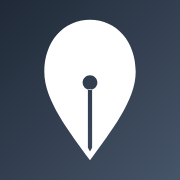
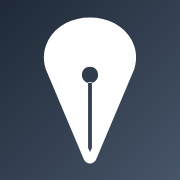
Refine the nib mark, fix the record notice and the smoke test count
Claude-Session: https://claude.ai/code/session_01GpcxRTzFwBRRgXHcpe3f5z

Changed region(s): [[0.2222, 0.0833, 0.7778, 0.7778], [0.4444, 0.3611, 0.5556, 0.5], [0.4167, 0.7778, 0.5833, 0.9167]]

diff --git a/src/components/brand.tsx b/src/components/brand.tsx
@@ -7,10 +7,10 @@ import { cn } from "@/components/ui";
  */
 /** The nib on a 1024 canvas: a pointed nib with a slit and a breather hole (cut out, even-odd). Small marks drop the slit. */
 export function nibPath(small: boolean): string {
-  const body = "M512 112C664 112 772 236 772 408C772 572 630 748 512 912C394 748 252 572 252 408C252 236 360 112 512 112Z";
+  const body = "M512 100C612 100 704 146 748 226C776 278 782 334 764 392L548 904C534 938 490 938 476 904L260 392C242 334 248 278 276 226C320 146 412 100 512 100Z";
   if (small) return body;
-  const hole = "M512 428C535 428 554 447 554 470C554 493 535 512 512 512C489 512 470 493 470 470C470 447 489 428 512 428Z";
-  const slit = "M500 508H524V840L512 862L500 840Z";
+  const hole = "M512 380C538 380 558 400 558 426C558 452 538 472 512 472C486 472 466 452 466 426C466 400 486 380 512 380Z";
+  const slit = "M501 468H523V842L512 864L501 842Z";
   return body + hole + slit;
 }
 

diff --git a/src/app/s/[token]/sign-view.tsx b/src/app/s/[token]/sign-view.tsx
@@ -294,7 +294,7 @@ export function SignView(props: Props) {
                   className="mt-3 flex justify-end"
                 >
                   {at && adoption ? (
-                    <div className="flex items-center gap-3 rounded-xl border border-tab-line/60 bg-amber-50/70 px-3 py-2" style={{ backgroundColor: "color-mix(in srgb, var(--t-tab) 14%, var(--t-paper))" }}>
+                    <div className="flex items-center gap-3 rounded-xl border border-tab-line/60 px-3 py-2" style={{ backgroundColor: "color-mix(in srgb, var(--t-tab) 14%, var(--t-paper))" }}>
                       {/* eslint-disable-next-line @next/next/no-img-element */}
                       <img src={adoption.initialsPng} alt={`Initials of ${adoption.name}`} className="h-9 w-auto" />
                       <div className="text-[11px] leading-tight text-paper-muted">
